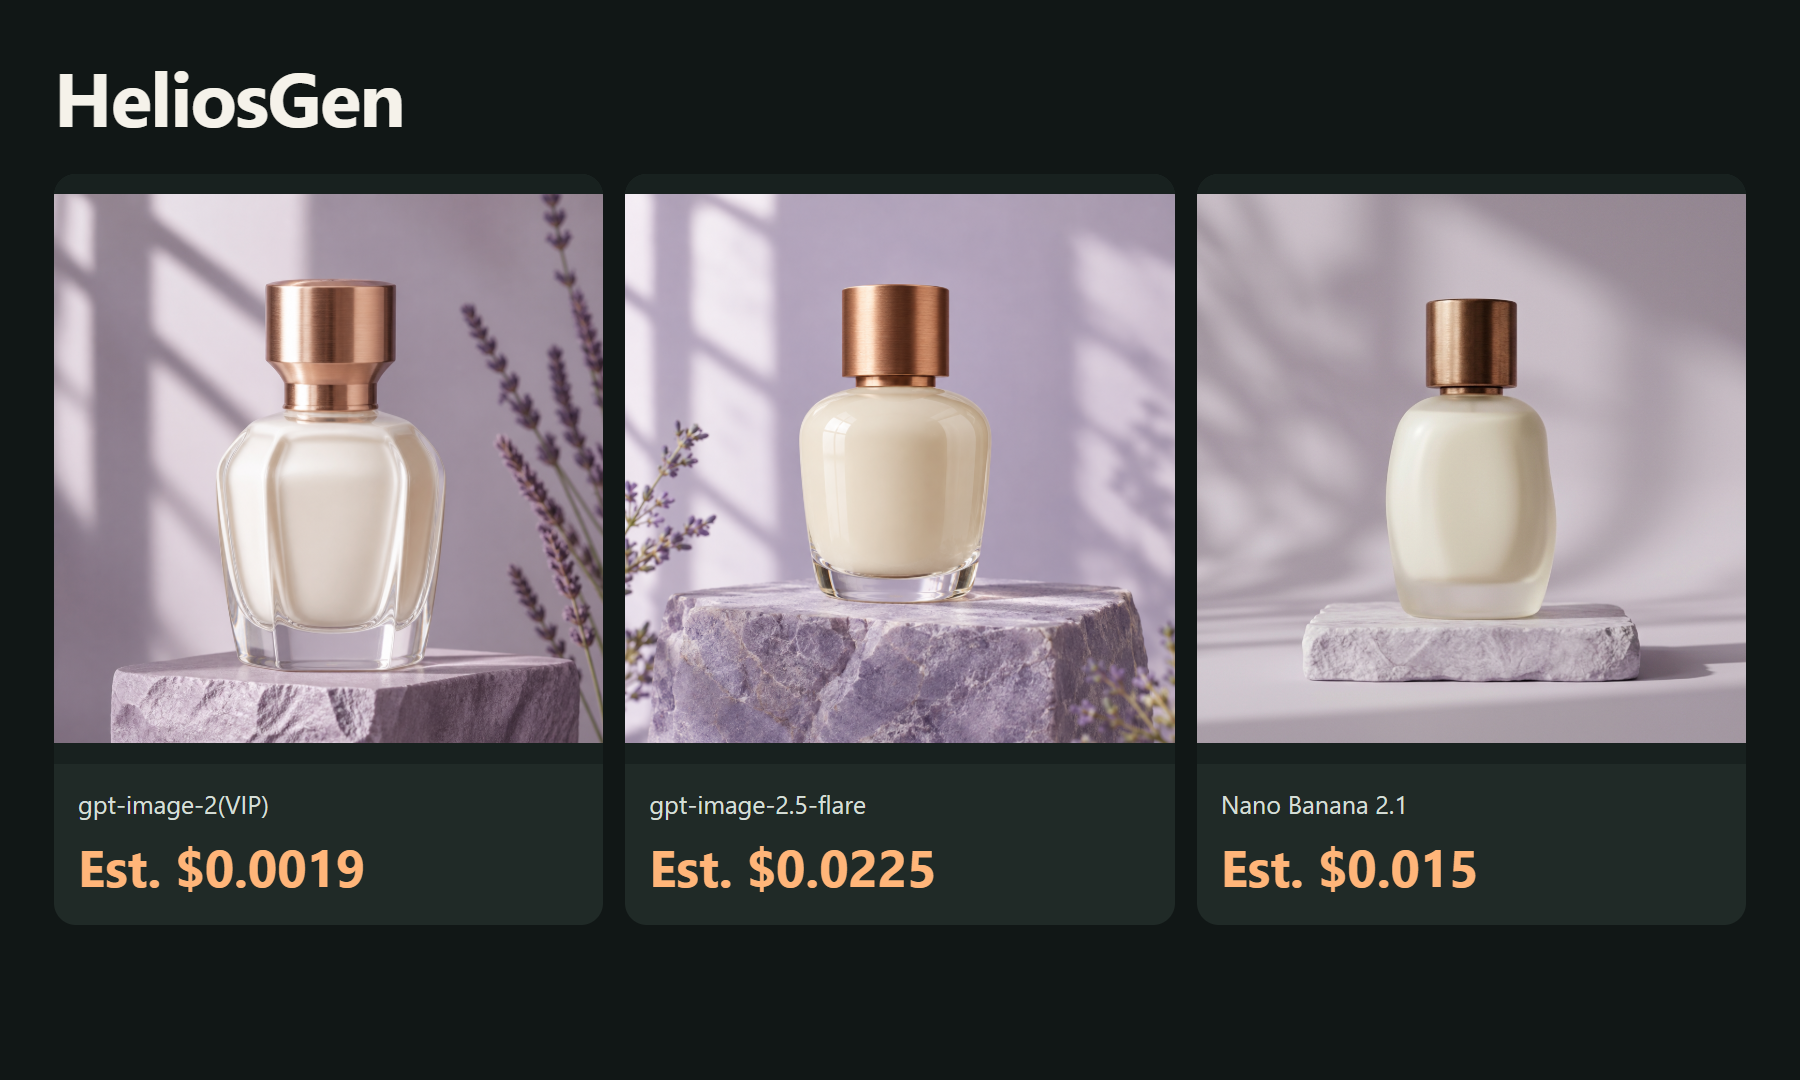
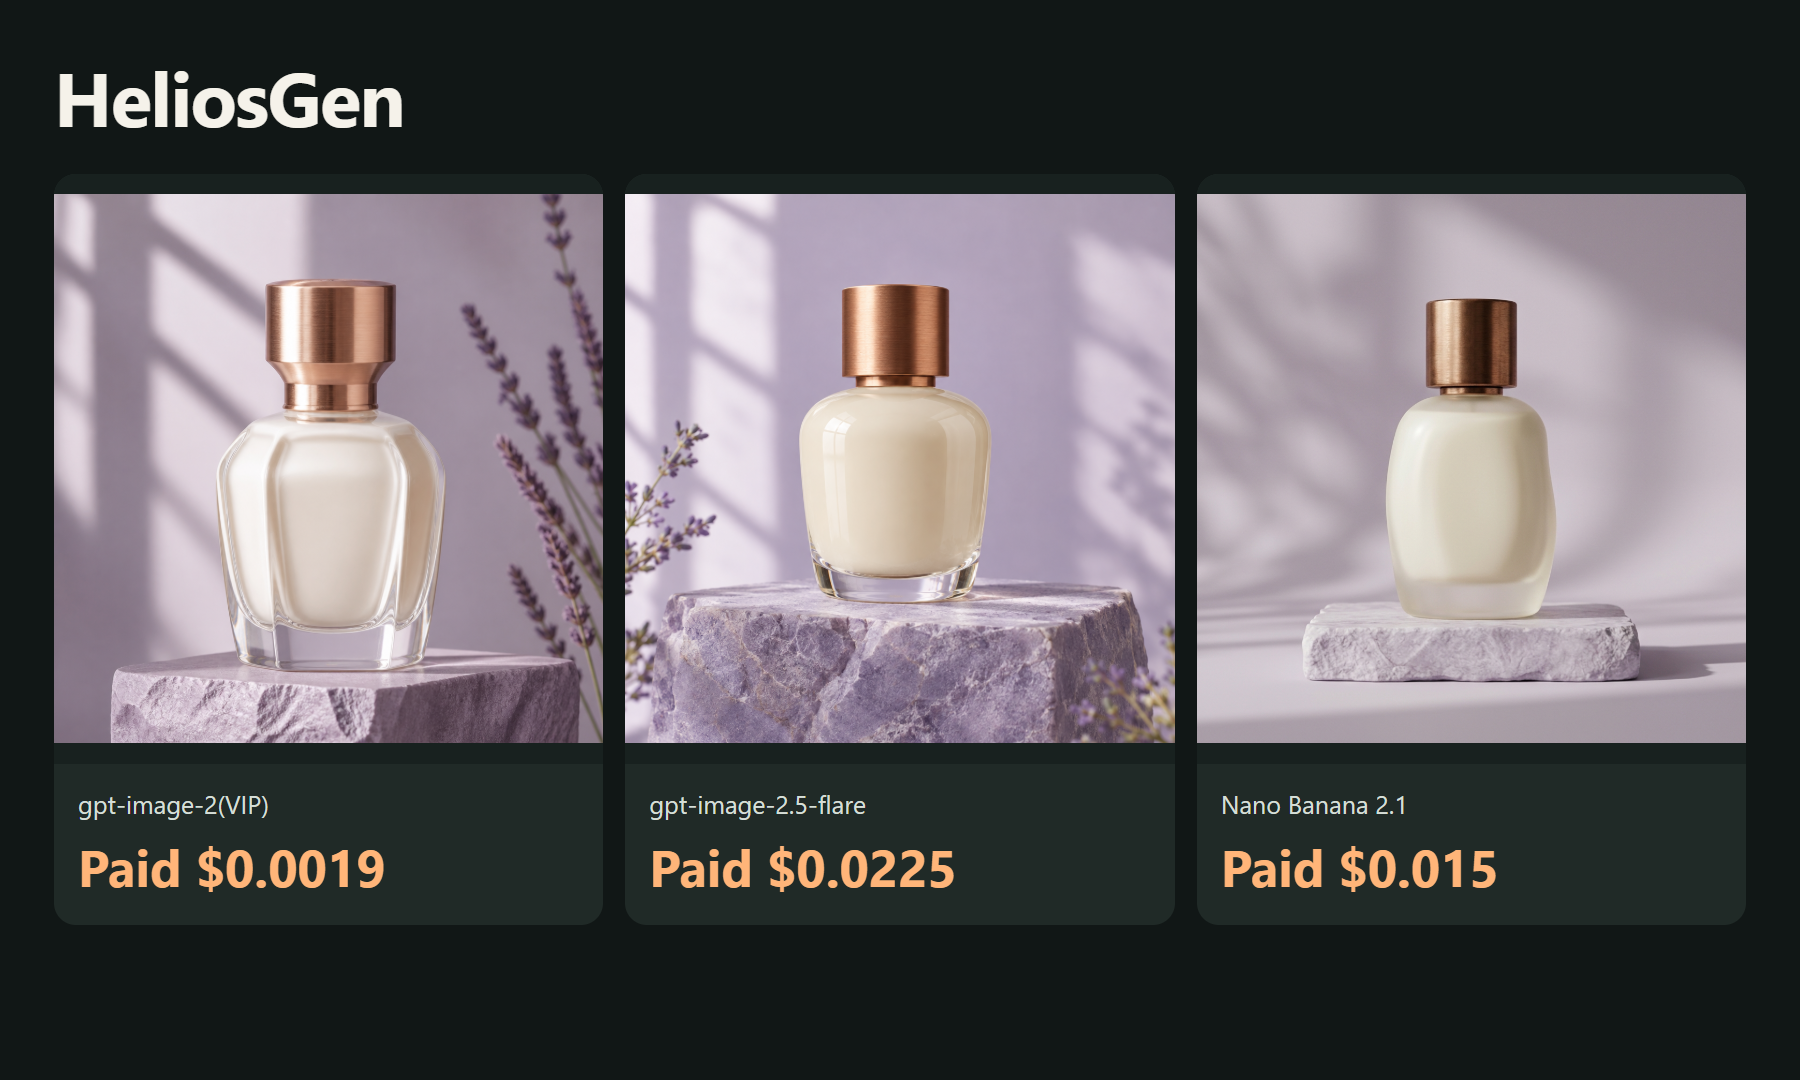
Publish original bilingual ToAPIs media examples, model pricing and real outputs

Changed region(s): [[0.0311, 0.7639, 0.2178, 0.825], [0.6844, 0.7639, 0.84, 0.825], [0.3733, 0.7639, 0.5289, 0.825]]

diff --git a/screenshots/cn/01-image-cases.html b/screenshots/cn/01-image-cases.html
@@ -1,1 +1,1 @@
-<!doctype html><html lang="zh-CN"><meta charset="utf-8"><title>HeliosGen</title><style>*{box-sizing:border-box}html,body{margin:0;width:1800px;height:1080px;overflow:hidden}body{background:#111716;color:#f5f2ea;font-family:"Segoe UI","Microsoft YaHei",sans-serif}.page{padding:54px 54px 40px}h1{font-size:76px;line-height:1.1;margin:0 0 36px;font-weight:650;letter-spacing:-1.5px}.grid{display:grid;gap:22px}.case{background:#202a27;border-radius:22px;overflow:hidden}.case img{display:block;width:100%;height:590px;object-fit:contain;background:#18211f}.caption{padding:24px 24px 28px}.model{font-size:25px;line-height:1.3;color:#d5dfd7;white-space:nowrap}.price{font-size:51px;line-height:1.2;color:#ffb579;font-weight:650;margin-top:16px}.video .case img{height:610px}.video .model{font-size:30px}.video .price{font-size:50px}</style><main class="page "><h1>HeliosGen</h1><div class="grid" style="grid-template-columns:repeat(3,1fr)"><section class="case"><img src="../../examples/gpt-image-2-vip.png"><div class="caption"><div class="model">gpt-image-2(VIP)</div><div class="price">预计 $0.0019</div></div></section><section class="case"><img src="../../examples/gpt-image-2-5-flare.png"><div class="caption"><div class="model">gpt-image-2.5-flare</div><div class="price">预计 $0.0225</div></div></section><section class="case"><img src="../../examples/gemini-nano-banana-2-1.png"><div class="caption"><div class="model">Nano Banana 2.1</div><div class="price">预计 $0.015</div></div></section></div></main></html>
+<!doctype html><html lang="zh-CN"><meta charset="utf-8"><title>HeliosGen</title><style>*{box-sizing:border-box}html,body{margin:0;width:1800px;height:1080px;overflow:hidden}body{background:#111716;color:#f5f2ea;font-family:"Segoe UI","Microsoft YaHei",sans-serif}.page{padding:54px 54px 40px}h1{font-size:76px;line-height:1.1;margin:0 0 36px;font-weight:650;letter-spacing:-1.5px}.grid{display:grid;gap:22px}.case{background:#202a27;border-radius:22px;overflow:hidden}.case img{display:block;width:100%;height:590px;object-fit:contain;background:#18211f}.caption{padding:24px 24px 28px}.model{font-size:25px;line-height:1.3;color:#d5dfd7;white-space:nowrap}.price{font-size:51px;line-height:1.2;color:#ffb579;font-weight:650;margin-top:16px}.video .case img{height:610px}.video .model{font-size:30px}.video .price{font-size:50px}</style><main class="page "><h1>HeliosGen</h1><div class="grid" style="grid-template-columns:repeat(3,1fr)"><section class="case"><img src="../../examples/gpt-image-2-vip.png"><div class="caption"><div class="model">gpt-image-2(VIP)</div><div class="price">实扣 $0.0019</div></div></section><section class="case"><img src="../../examples/gpt-image-2-5-flare.png"><div class="caption"><div class="model">gpt-image-2.5-flare</div><div class="price">实扣 $0.0225</div></div></section><section class="case"><img src="../../examples/gemini-nano-banana-2-1.png"><div class="caption"><div class="model">Nano Banana 2.1</div><div class="price">实扣 $0.015</div></div></section></div></main></html>

diff --git a/screenshots/en/01-image-cases.html b/screenshots/en/01-image-cases.html
@@ -1,1 +1,1 @@
-<!doctype html><html lang="en"><meta charset="utf-8"><title>HeliosGen</title><style>*{box-sizing:border-box}html,body{margin:0;width:1800px;height:1080px;overflow:hidden}body{background:#111716;color:#f5f2ea;font-family:"Segoe UI","Microsoft YaHei",sans-serif}.page{padding:54px 54px 40px}h1{font-size:76px;line-height:1.1;margin:0 0 36px;font-weight:650;letter-spacing:-1.5px}.grid{display:grid;gap:22px}.case{background:#202a27;border-radius:22px;overflow:hidden}.case img{display:block;width:100%;height:590px;object-fit:contain;background:#18211f}.caption{padding:24px 24px 28px}.model{font-size:25px;line-height:1.3;color:#d5dfd7;white-space:nowrap}.price{font-size:51px;line-height:1.2;color:#ffb579;font-weight:650;margin-top:16px}.video .case img{height:610px}.video .model{font-size:30px}.video .price{font-size:50px}</style><main class="page "><h1>HeliosGen</h1><div class="grid" style="grid-template-columns:repeat(3,1fr)"><section class="case"><img src="../../examples/gpt-image-2-vip.png"><div class="caption"><div class="model">gpt-image-2(VIP)</div><div class="price">Est. $0.0019</div></div></section><section class="case"><img src="../../examples/gpt-image-2-5-flare.png"><div class="caption"><div class="model">gpt-image-2.5-flare</div><div class="price">Est. $0.0225</div></div></section><section class="case"><img src="../../examples/gemini-nano-banana-2-1.png"><div class="caption"><div class="model">Nano Banana 2.1</div><div class="price">Est. $0.015</div></div></section></div></main></html>
+<!doctype html><html lang="en"><meta charset="utf-8"><title>HeliosGen</title><style>*{box-sizing:border-box}html,body{margin:0;width:1800px;height:1080px;overflow:hidden}body{background:#111716;color:#f5f2ea;font-family:"Segoe UI","Microsoft YaHei",sans-serif}.page{padding:54px 54px 40px}h1{font-size:76px;line-height:1.1;margin:0 0 36px;font-weight:650;letter-spacing:-1.5px}.grid{display:grid;gap:22px}.case{background:#202a27;border-radius:22px;overflow:hidden}.case img{display:block;width:100%;height:590px;object-fit:contain;background:#18211f}.caption{padding:24px 24px 28px}.model{font-size:25px;line-height:1.3;color:#d5dfd7;white-space:nowrap}.price{font-size:51px;line-height:1.2;color:#ffb579;font-weight:650;margin-top:16px}.video .case img{height:610px}.video .model{font-size:30px}.video .price{font-size:50px}</style><main class="page "><h1>HeliosGen</h1><div class="grid" style="grid-template-columns:repeat(3,1fr)"><section class="case"><img src="../../examples/gpt-image-2-vip.png"><div class="caption"><div class="model">gpt-image-2(VIP)</div><div class="price">Paid $0.0019</div></div></section><section class="case"><img src="../../examples/gpt-image-2-5-flare.png"><div class="caption"><div class="model">gpt-image-2.5-flare</div><div class="price">Paid $0.0225</div></div></section><section class="case"><img src="../../examples/gemini-nano-banana-2-1.png"><div class="caption"><div class="model">Nano Banana 2.1</div><div class="price">Paid $0.015</div></div></section></div></main></html>

diff --git a/screenshots/cn/02-video-case.html b/screenshots/cn/02-video-case.html
@@ -1,1 +1,1 @@
-<!doctype html><html lang="zh-CN"><meta charset="utf-8"><title>HeliosGen</title><style>*{box-sizing:border-box}html,body{margin:0;width:1800px;height:1080px;overflow:hidden}body{background:#111716;color:#f5f2ea;font-family:"Segoe UI","Microsoft YaHei",sans-serif}.page{padding:54px 54px 40px}h1{font-size:76px;line-height:1.1;margin:0 0 36px;font-weight:650;letter-spacing:-1.5px}.grid{display:grid;gap:22px}.case{background:#202a27;border-radius:22px;overflow:hidden}.case img{display:block;width:100%;height:590px;object-fit:contain;background:#18211f}.caption{padding:24px 24px 28px}.model{font-size:25px;line-height:1.3;color:#d5dfd7;white-space:nowrap}.price{font-size:51px;line-height:1.2;color:#ffb579;font-weight:650;margin-top:16px}.video .case img{height:610px}.video .model{font-size:30px}.video .price{font-size:50px}</style><main class="page video"><h1>HeliosGen</h1><div class="grid" style="grid-template-columns:repeat(2,1fr)"><section class="case"><img src="../../examples/gpt-image-2-vip.png"><div class="caption"><div class="model">gpt-image-2(VIP)</div><div class="price">预计 $0.0019</div></div></section><section class="case"><img src="../../demo/video-frame.jpg"><div class="caption"><div class="model">MiniMax H3 · 5s / 768p</div><div class="price">预计 $0.40</div></div></section></div></main></html>
+<!doctype html><html lang="zh-CN"><meta charset="utf-8"><title>HeliosGen</title><style>*{box-sizing:border-box}html,body{margin:0;width:1800px;height:1080px;overflow:hidden}body{background:#111716;color:#f5f2ea;font-family:"Segoe UI","Microsoft YaHei",sans-serif}.page{padding:54px 54px 40px}h1{font-size:76px;line-height:1.1;margin:0 0 36px;font-weight:650;letter-spacing:-1.5px}.grid{display:grid;gap:22px}.case{background:#202a27;border-radius:22px;overflow:hidden}.case img{display:block;width:100%;height:590px;object-fit:contain;background:#18211f}.caption{padding:24px 24px 28px}.model{font-size:25px;line-height:1.3;color:#d5dfd7;white-space:nowrap}.price{font-size:51px;line-height:1.2;color:#ffb579;font-weight:650;margin-top:16px}.video .case img{height:610px}.video .model{font-size:30px}.video .price{font-size:50px}</style><main class="page video"><h1>HeliosGen</h1><div class="grid" style="grid-template-columns:repeat(2,1fr)"><section class="case"><img src="../../examples/gpt-image-2-vip.png"><div class="caption"><div class="model">gpt-image-2(VIP)</div><div class="price">实扣 $0.0019</div></div></section><section class="case"><img src="../../demo/video-frame.jpg"><div class="caption"><div class="model">MiniMax H3 · 5s / 768p</div><div class="price">实扣 $0.40</div></div></section></div></main></html>

diff --git a/screenshots/en/02-video-case.html b/screenshots/en/02-video-case.html
@@ -1,1 +1,1 @@
-<!doctype html><html lang="en"><meta charset="utf-8"><title>HeliosGen</title><style>*{box-sizing:border-box}html,body{margin:0;width:1800px;height:1080px;overflow:hidden}body{background:#111716;color:#f5f2ea;font-family:"Segoe UI","Microsoft YaHei",sans-serif}.page{padding:54px 54px 40px}h1{font-size:76px;line-height:1.1;margin:0 0 36px;font-weight:650;letter-spacing:-1.5px}.grid{display:grid;gap:22px}.case{background:#202a27;border-radius:22px;overflow:hidden}.case img{display:block;width:100%;height:590px;object-fit:contain;background:#18211f}.caption{padding:24px 24px 28px}.model{font-size:25px;line-height:1.3;color:#d5dfd7;white-space:nowrap}.price{font-size:51px;line-height:1.2;color:#ffb579;font-weight:650;margin-top:16px}.video .case img{height:610px}.video .model{font-size:30px}.video .price{font-size:50px}</style><main class="page video"><h1>HeliosGen</h1><div class="grid" style="grid-template-columns:repeat(2,1fr)"><section class="case"><img src="../../examples/gpt-image-2-vip.png"><div class="caption"><div class="model">gpt-image-2(VIP)</div><div class="price">Est. $0.0019</div></div></section><section class="case"><img src="../../demo/video-frame.jpg"><div class="caption"><div class="model">MiniMax H3 · 5s / 768p</div><div class="price">Est. $0.40</div></div></section></div></main></html>
+<!doctype html><html lang="en"><meta charset="utf-8"><title>HeliosGen</title><style>*{box-sizing:border-box}html,body{margin:0;width:1800px;height:1080px;overflow:hidden}body{background:#111716;color:#f5f2ea;font-family:"Segoe UI","Microsoft YaHei",sans-serif}.page{padding:54px 54px 40px}h1{font-size:76px;line-height:1.1;margin:0 0 36px;font-weight:650;letter-spacing:-1.5px}.grid{display:grid;gap:22px}.case{background:#202a27;border-radius:22px;overflow:hidden}.case img{display:block;width:100%;height:590px;object-fit:contain;background:#18211f}.caption{padding:24px 24px 28px}.model{font-size:25px;line-height:1.3;color:#d5dfd7;white-space:nowrap}.price{font-size:51px;line-height:1.2;color:#ffb579;font-weight:650;margin-top:16px}.video .case img{height:610px}.video .model{font-size:30px}.video .price{font-size:50px}</style><main class="page video"><h1>HeliosGen</h1><div class="grid" style="grid-template-columns:repeat(2,1fr)"><section class="case"><img src="../../examples/gpt-image-2-vip.png"><div class="caption"><div class="model">gpt-image-2(VIP)</div><div class="price">Paid $0.0019</div></div></section><section class="case"><img src="../../demo/video-frame.jpg"><div class="caption"><div class="model">MiniMax H3 · 5s / 768p</div><div class="price">Paid $0.40</div></div></section></div></main></html>

diff --git a/README.md b/README.md
@@ -4,7 +4,7 @@
 
 Build image/video workflows on a canvas.
 
-October 16, 2026: 3 real images and 1 real video. Catalog estimate for these completed assets: **$0.4394**; settled charges pending.
+October 16, 2026: 3 real images and 1 real video. Confirmed charge for these completed assets: **$0.4394 (87.88 credits)**, reconciled by task ID against the owner-provided dashboard export.
 
 [ToAPIs · model pricing and setup](https://go2v.toapis.com/hg16ge)
 
@@ -20,12 +20,12 @@ October 16, 2026: 3 real images and 1 real video. Catalog estimate for these com
 
 | Model | Preset | Catalog estimate / output | Settled charge |
 |---|---|---:|---|
-| gpt-image-2(VIP) | low / 1K | $0.0019 | pending |
-| gpt-image-2.5-flare | high / 1K | $0.0225 | pending |
-| Nano Banana 2.1 | 1K | $0.015 | pending |
-| MiniMax H3 | 5s / 768p / first-frame | $0.40 ($0.08/s) | pending |
+| gpt-image-2(VIP) | low / 1K | $0.0019 | $0.0019 |
+| gpt-image-2.5-flare | high / 1K | $0.0225 | $0.0225 |
+| Nano Banana 2.1 | 1K | $0.015 | $0.015 |
+| MiniMax H3 | 5s / 768p / first-frame | $0.40 ($0.08/s) | $0.4 |
 
-These are catalog estimates for the specified presets, not confirmed settled charges. Different models/presets do not imply equal quality. See evidence and examples for task records and originals.
+Catalog rates and confirmed charges match for these tested presets. Charges were reconciled against the owner-provided dashboard export at USD 0.005 per credit. Different models/presets do not imply equal quality. See evidence and examples for task records and originals.
 
 ## Run it
 

diff --git a/README_zh-CN.md b/README_zh-CN.md
@@ -4,7 +4,7 @@
 
 把图片和视频节点连起来做创作工作流。
 
-2026-10-16：3张真实图片、1段真实视频；本批成功素材按价表估算 **$0.4394**，实际扣费待后台核对。
+2026-10-16：3张真实图片、1段真实视频；本批成功素材实扣 **$0.4394（87.88积分）**，已按后台导出逐任务核对。
 
 [ToAPIs · 对应模型价格与接入](https://go2v.toapis.com/hg16gc)
 
@@ -20,12 +20,12 @@
 
 | Model | Preset | Catalog estimate / output | Settled charge |
 |---|---|---:|---|
-| gpt-image-2(VIP) | low / 1K | $0.0019 | 待核对 |
-| gpt-image-2.5-flare | high / 1K | $0.0225 | 待核对 |
-| Nano Banana 2.1 | 1K | $0.015 | 待核对 |
-| MiniMax H3 | 5s / 768p / first-frame | $0.40 ($0.08/s) | 待核对 |
+| gpt-image-2(VIP) | low / 1K | $0.0019 | $0.0019 |
+| gpt-image-2.5-flare | high / 1K | $0.0225 | $0.0225 |
+| Nano Banana 2.1 | 1K | $0.015 | $0.015 |
+| MiniMax H3 | 5s / 768p / first-frame | $0.40 ($0.08/s) | $0.4 |
 
-以上是本次明确配置的费率估算，不是已结算金额；不同模型/画质不表示同等质量。每项任务、请求和原始文件见evidence与examples。
+对应配置的价表与本次实扣一致；实扣来自后台导出，1积分=$0.005。不同模型/画质不表示同等质量。逐任务记录和原始文件见evidence与examples。
 
 ## 怎么运行
 
